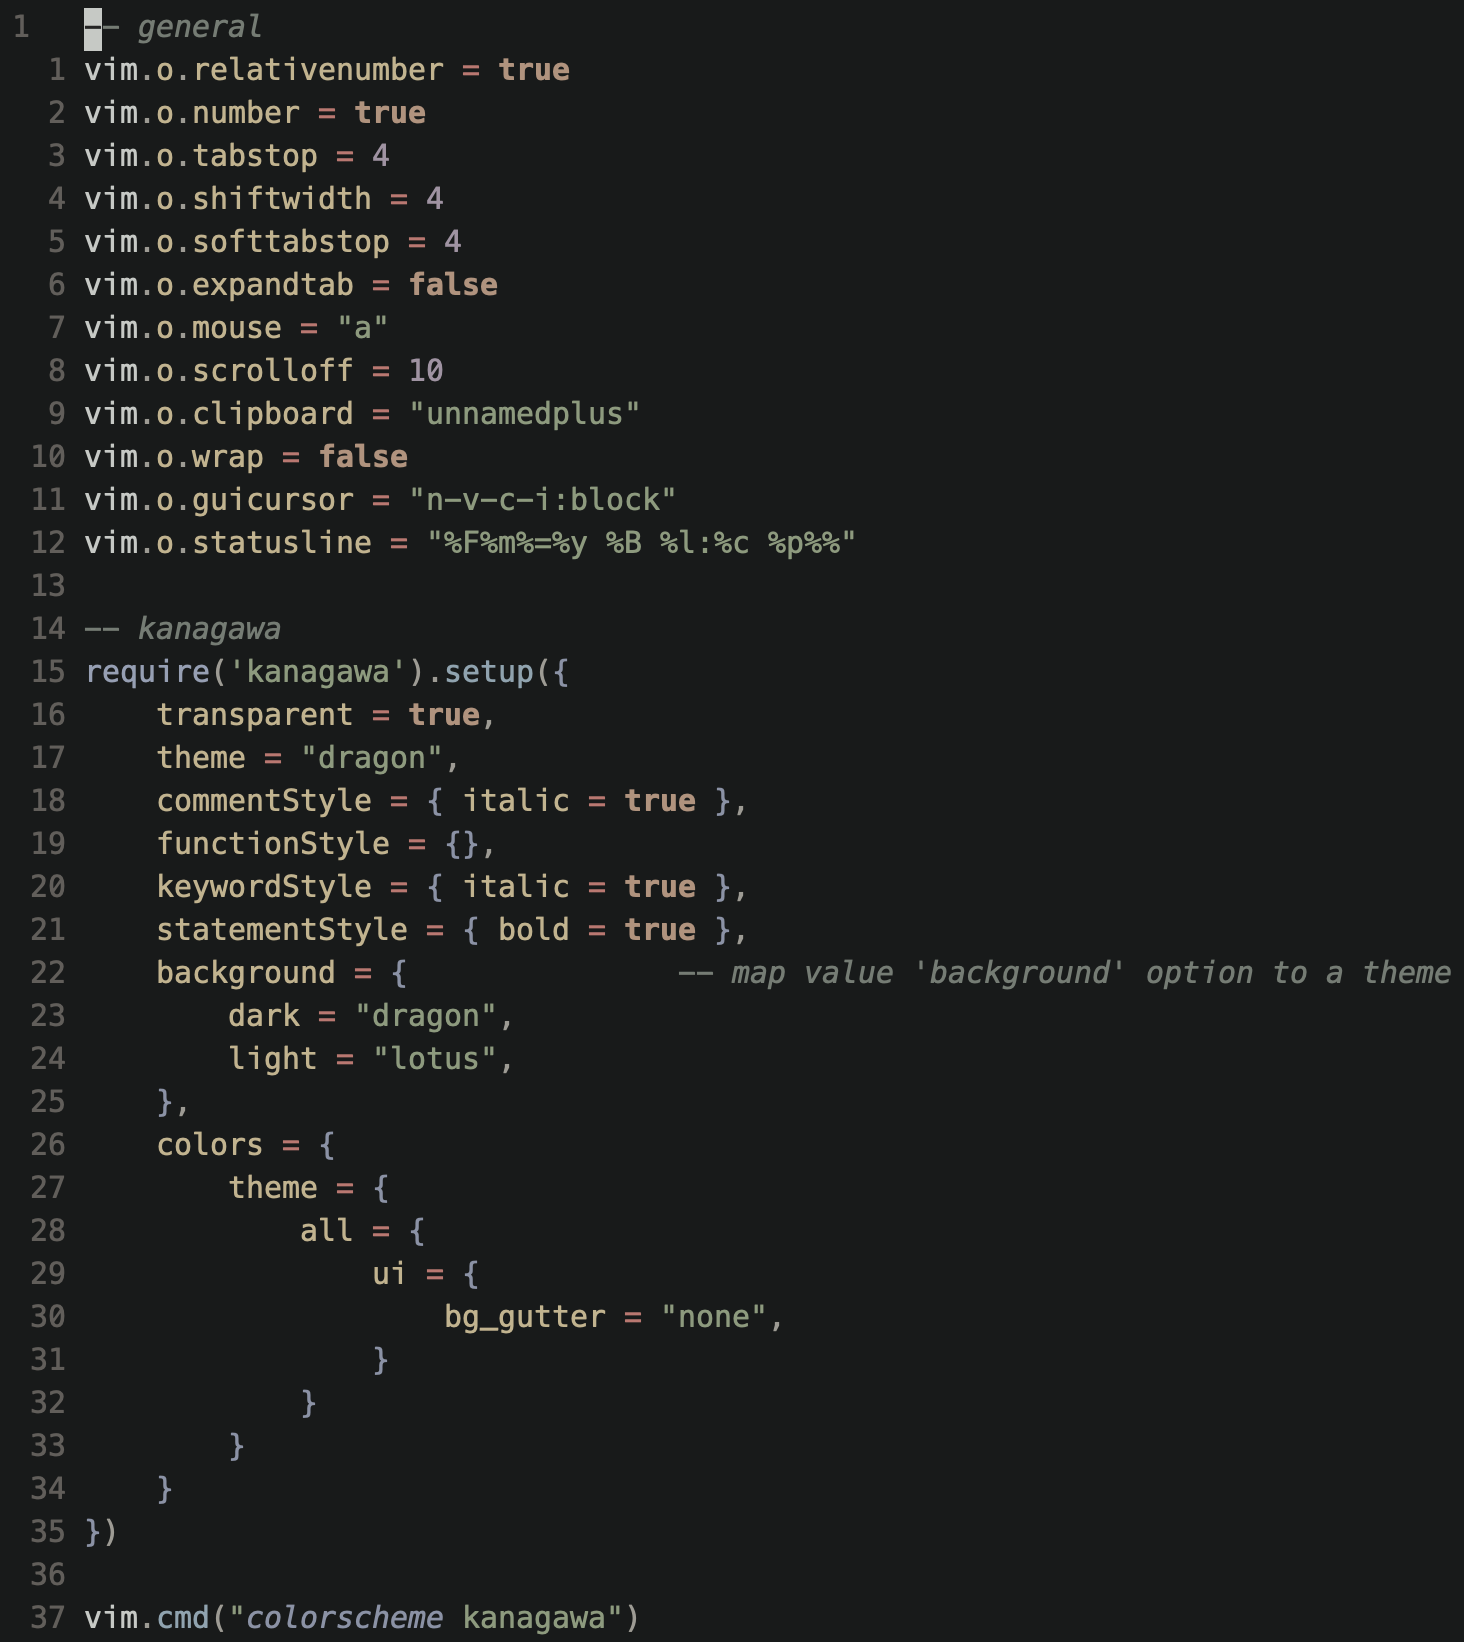
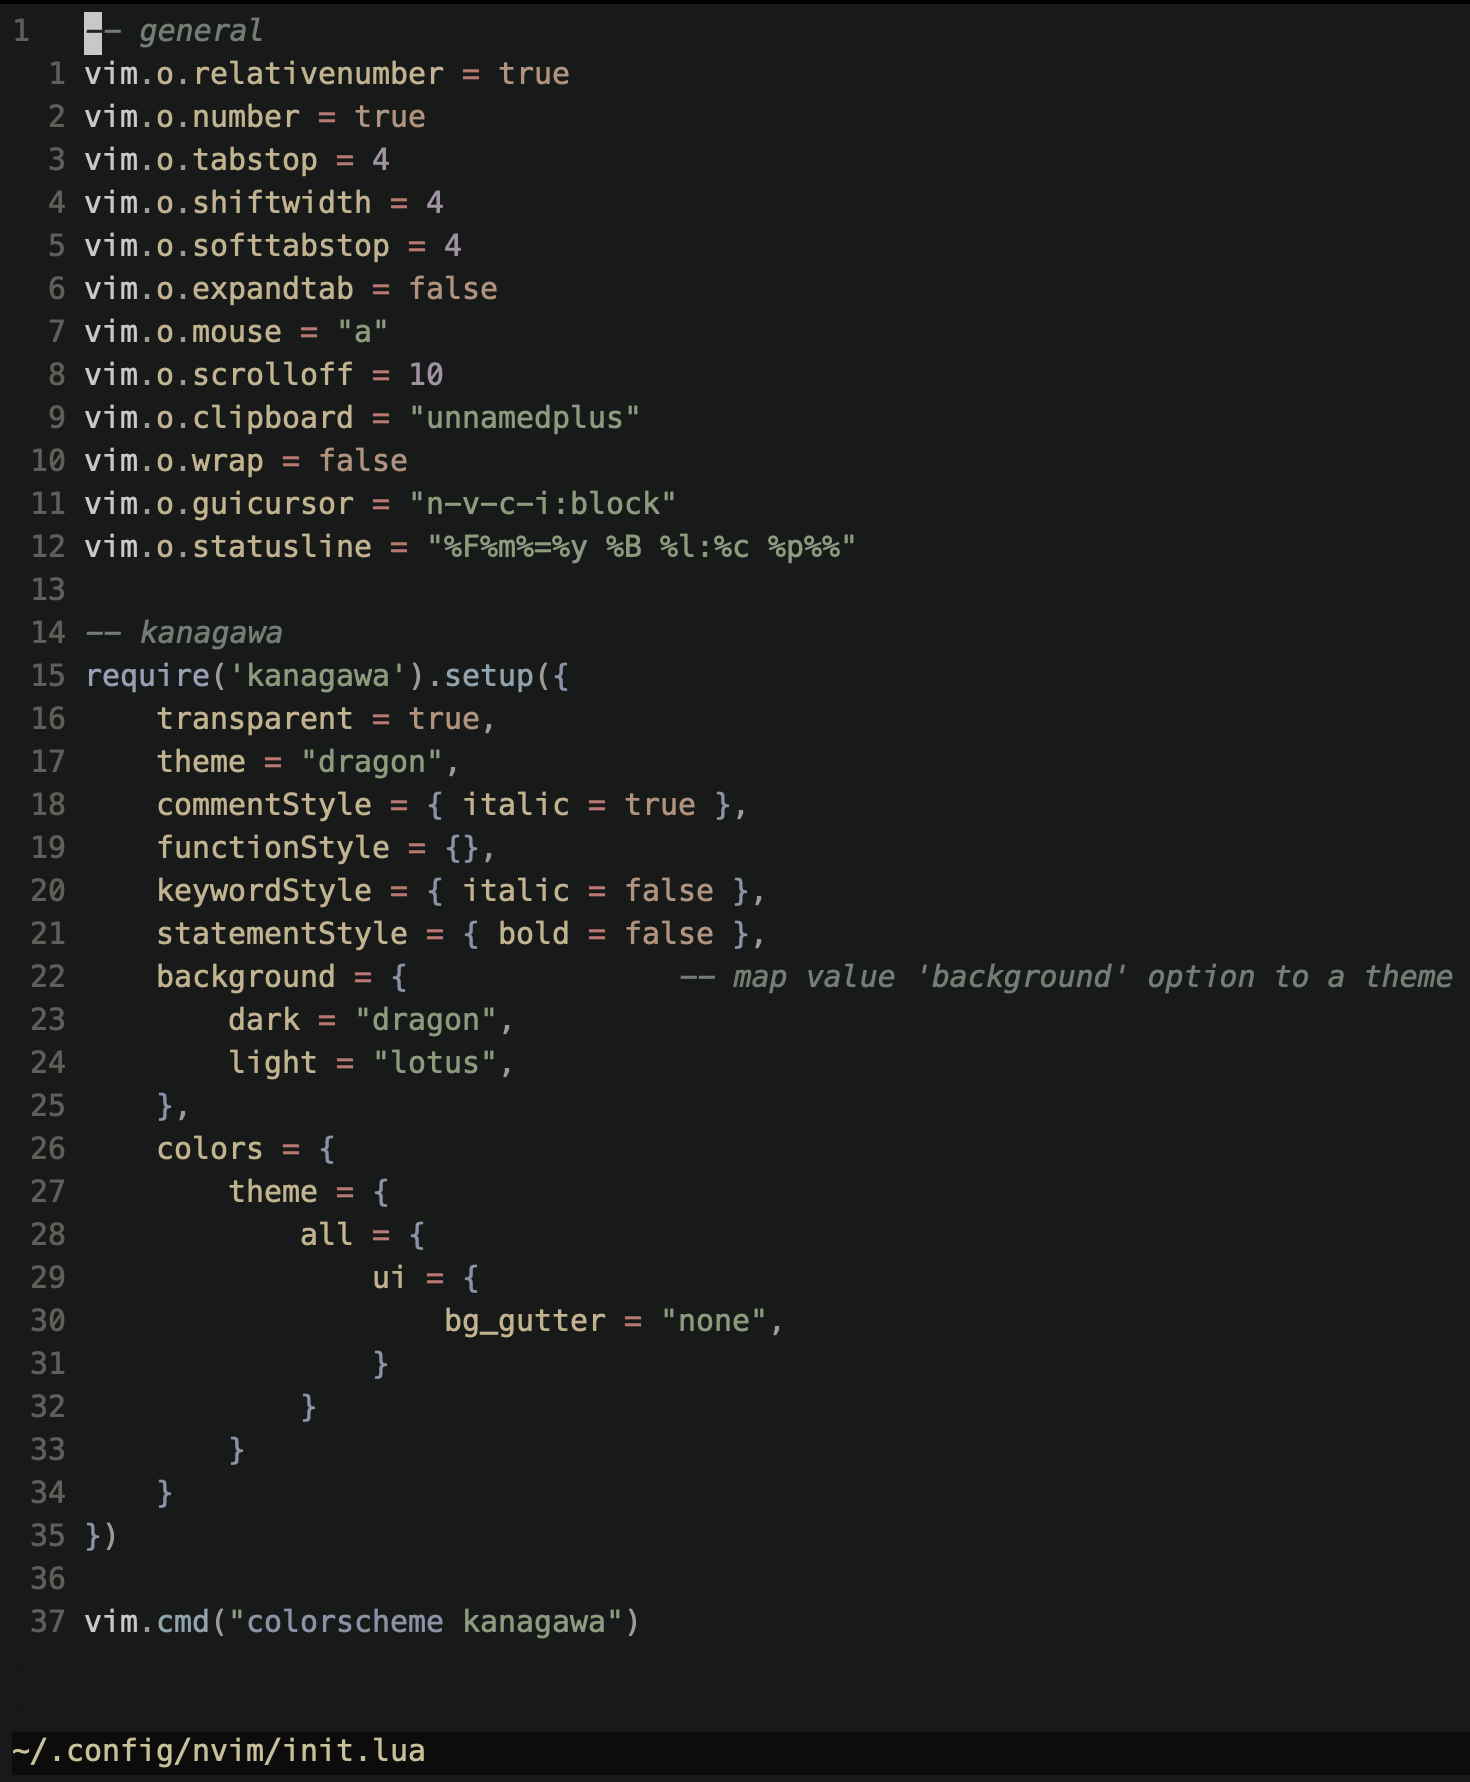
update README, screenshot

diff --git a/README.md b/README.md
@@ -19,3 +19,6 @@
 - slightly lower `l` ascender to match other ascenders
 - center `'`, and `'`
 - extend slash/backslash to match parens/brackets/braces
+- programmatically align obliques from scratch using script that centers them positionally against the x-height of roman
+- implement oblique everything (mainly punctuation and symbols)
+- `cv01` is a curly-tailed `i` derived from the `l` glyph